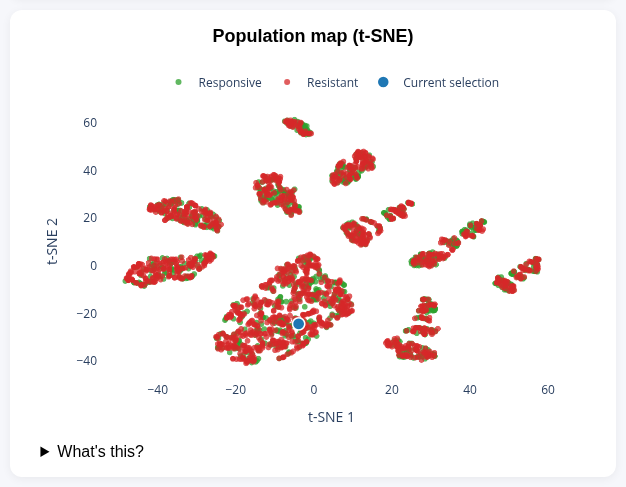
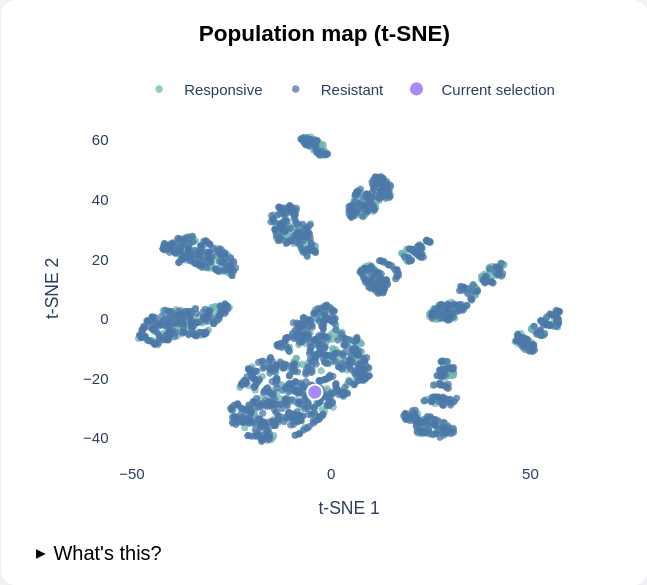
feat: improve tutorial

diff --git a/app.py b/app.py
@@ -336,9 +336,9 @@ def create_input_guide_card() -> html.Div:
 def create_tutorial_section() -> html.Div:
     return html.Div(
         [
-            html.H3("What each panel means", style={"margin": "0 0 12px 0"}),
+            html.H3("Tutorial", style={"margin": "0 0 12px 0"}),
             html.Div(
-                "This guide explains the dashboard components in neutral, non-technical language. It describes what each panel represents and how the information can be read.",
+                "This guide explains how to interpret each dashboard component.",
                 style={"color": "#4b5563", "lineHeight": "1.5", "marginBottom": "14px"},
             ),
             html.Div(
@@ -420,7 +420,6 @@ def create_landing_page():
         "flex": "1",
         "minWidth": "420px",
         "padding": "22px",
-        "minHeight": "220px",
         "border": f"2px solid {BRAND_BLUE_LIGHT}",
         "cursor": "pointer",
         "boxShadow": "0 6px 16px rgba(0, 111, 185, 0.10)",
@@ -500,17 +499,9 @@ def create_landing_page():
                                 html.Div(
                                     (
                                         "A simplified view for shared conversations. It keeps the focus on the prediction, "
-                                        "uncertainty, and plain-language explanation, while leaving out advanced charts that "
-                                        "can distract from the main result."
+                                        "uncertainty, and plain-language explanation."
                                     ),
                                     style={"color": "#4b5563", "lineHeight": "1.6", "marginBottom": "8px"},
-                                ),
-                                html.Div(
-                                    (
-                                        "This view is useful when the goal is to understand the result without showing all "
-                                        "technical details at once."
-                                    ),
-                                    style={"color": "#4b5563", "lineHeight": "1.6"},
                                 ),
                                 html.Div(
                                     "Open Patient view ->",
@@ -542,13 +533,6 @@ def create_landing_page():
                                         "one place."
                                     ),
                                     style={"color": "#4b5563", "lineHeight": "1.6", "marginBottom": "8px"},
-                                ),
-                                html.Div(
-                                    (
-                                        "This view provides more detail for exploring why an estimate changes and how each "
-                                        "component relates to the selected profile."
-                                    ),
-                                    style={"color": "#4b5563", "lineHeight": "1.6"},
                                 ),
                                 html.Div(
                                     "Open Clinician view ->",